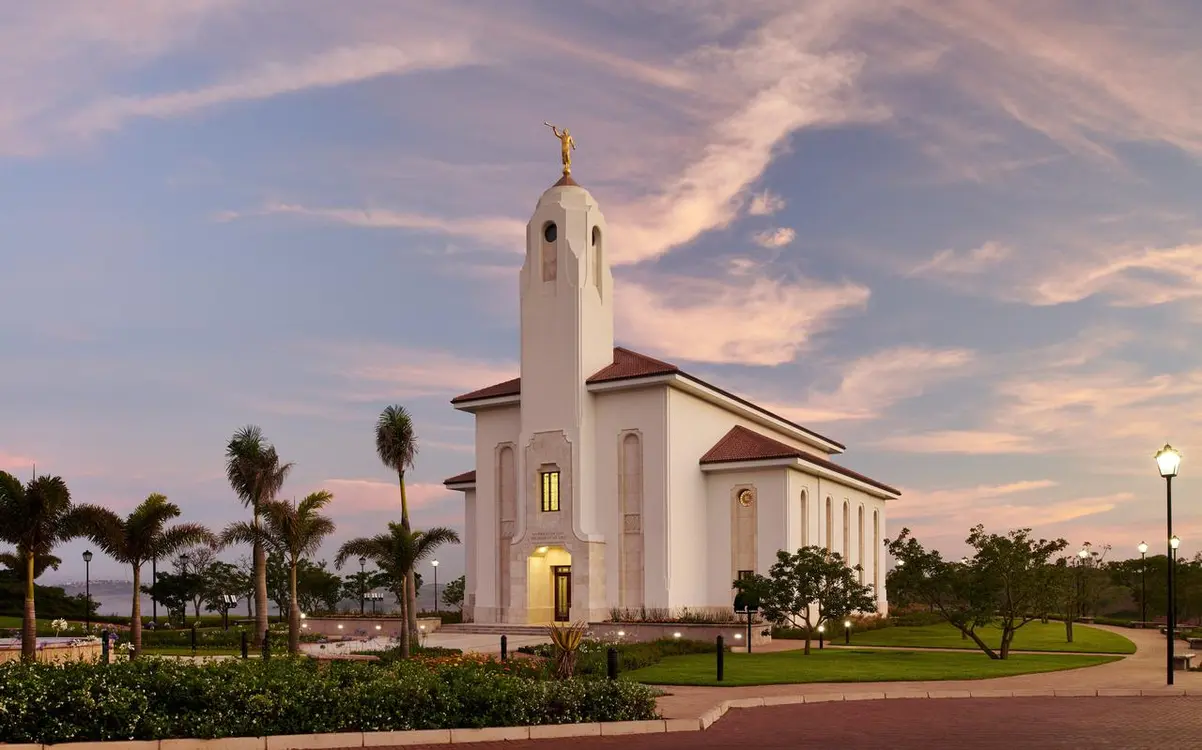
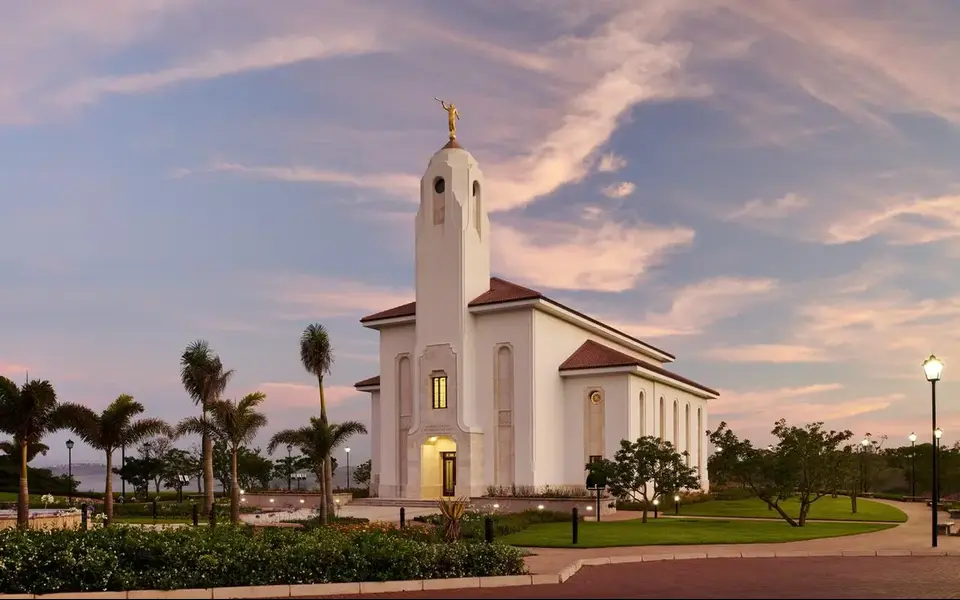
changes to img size of hero

diff --git a/index.html b/index.html
@@ -45,10 +45,11 @@
 
     <div class="hero">
         <picture>
-            <source srcset="images/hero-small.webp" media="(max-width: 400px)">
-            <source srcset="images/hero-medium.webp" media="(max-width: 800px)">
-            <img src="images/hero-large.webp" alt="Durban South Africa Temple" width="960" height="600">
-        </picture>
+            <picture>
+                <source media="(max-width: 400px)" srcset="images/hero-small.webp">
+                <source media="(max-width: 800px)" srcset="images/hero-medium.webp">
+                <img src="images/hero-large.webp" alt="Durban South Africa Temple" width="960" height="600">
+            </picture>
         <div class="herolabel">
             <p>Durban SA Temple</p>
         </div>

diff --git a/styles/base.css b/styles/base.css
@@ -147,6 +147,14 @@ footer {
     position: relative;
 }
 
+.hero picture {
+    width: 100%;
+}
+.hero img {
+    width: 100%;
+    height: auto;
+}
+
 .herolabel {
     position: absolute;
     top: 30px;
@@ -177,7 +185,6 @@ main h2 {
 
 /* iframe */
 iframe {
-    padding: 5px;
-    width: 600px;
+    width: 100%;
     height: auto;
 }
